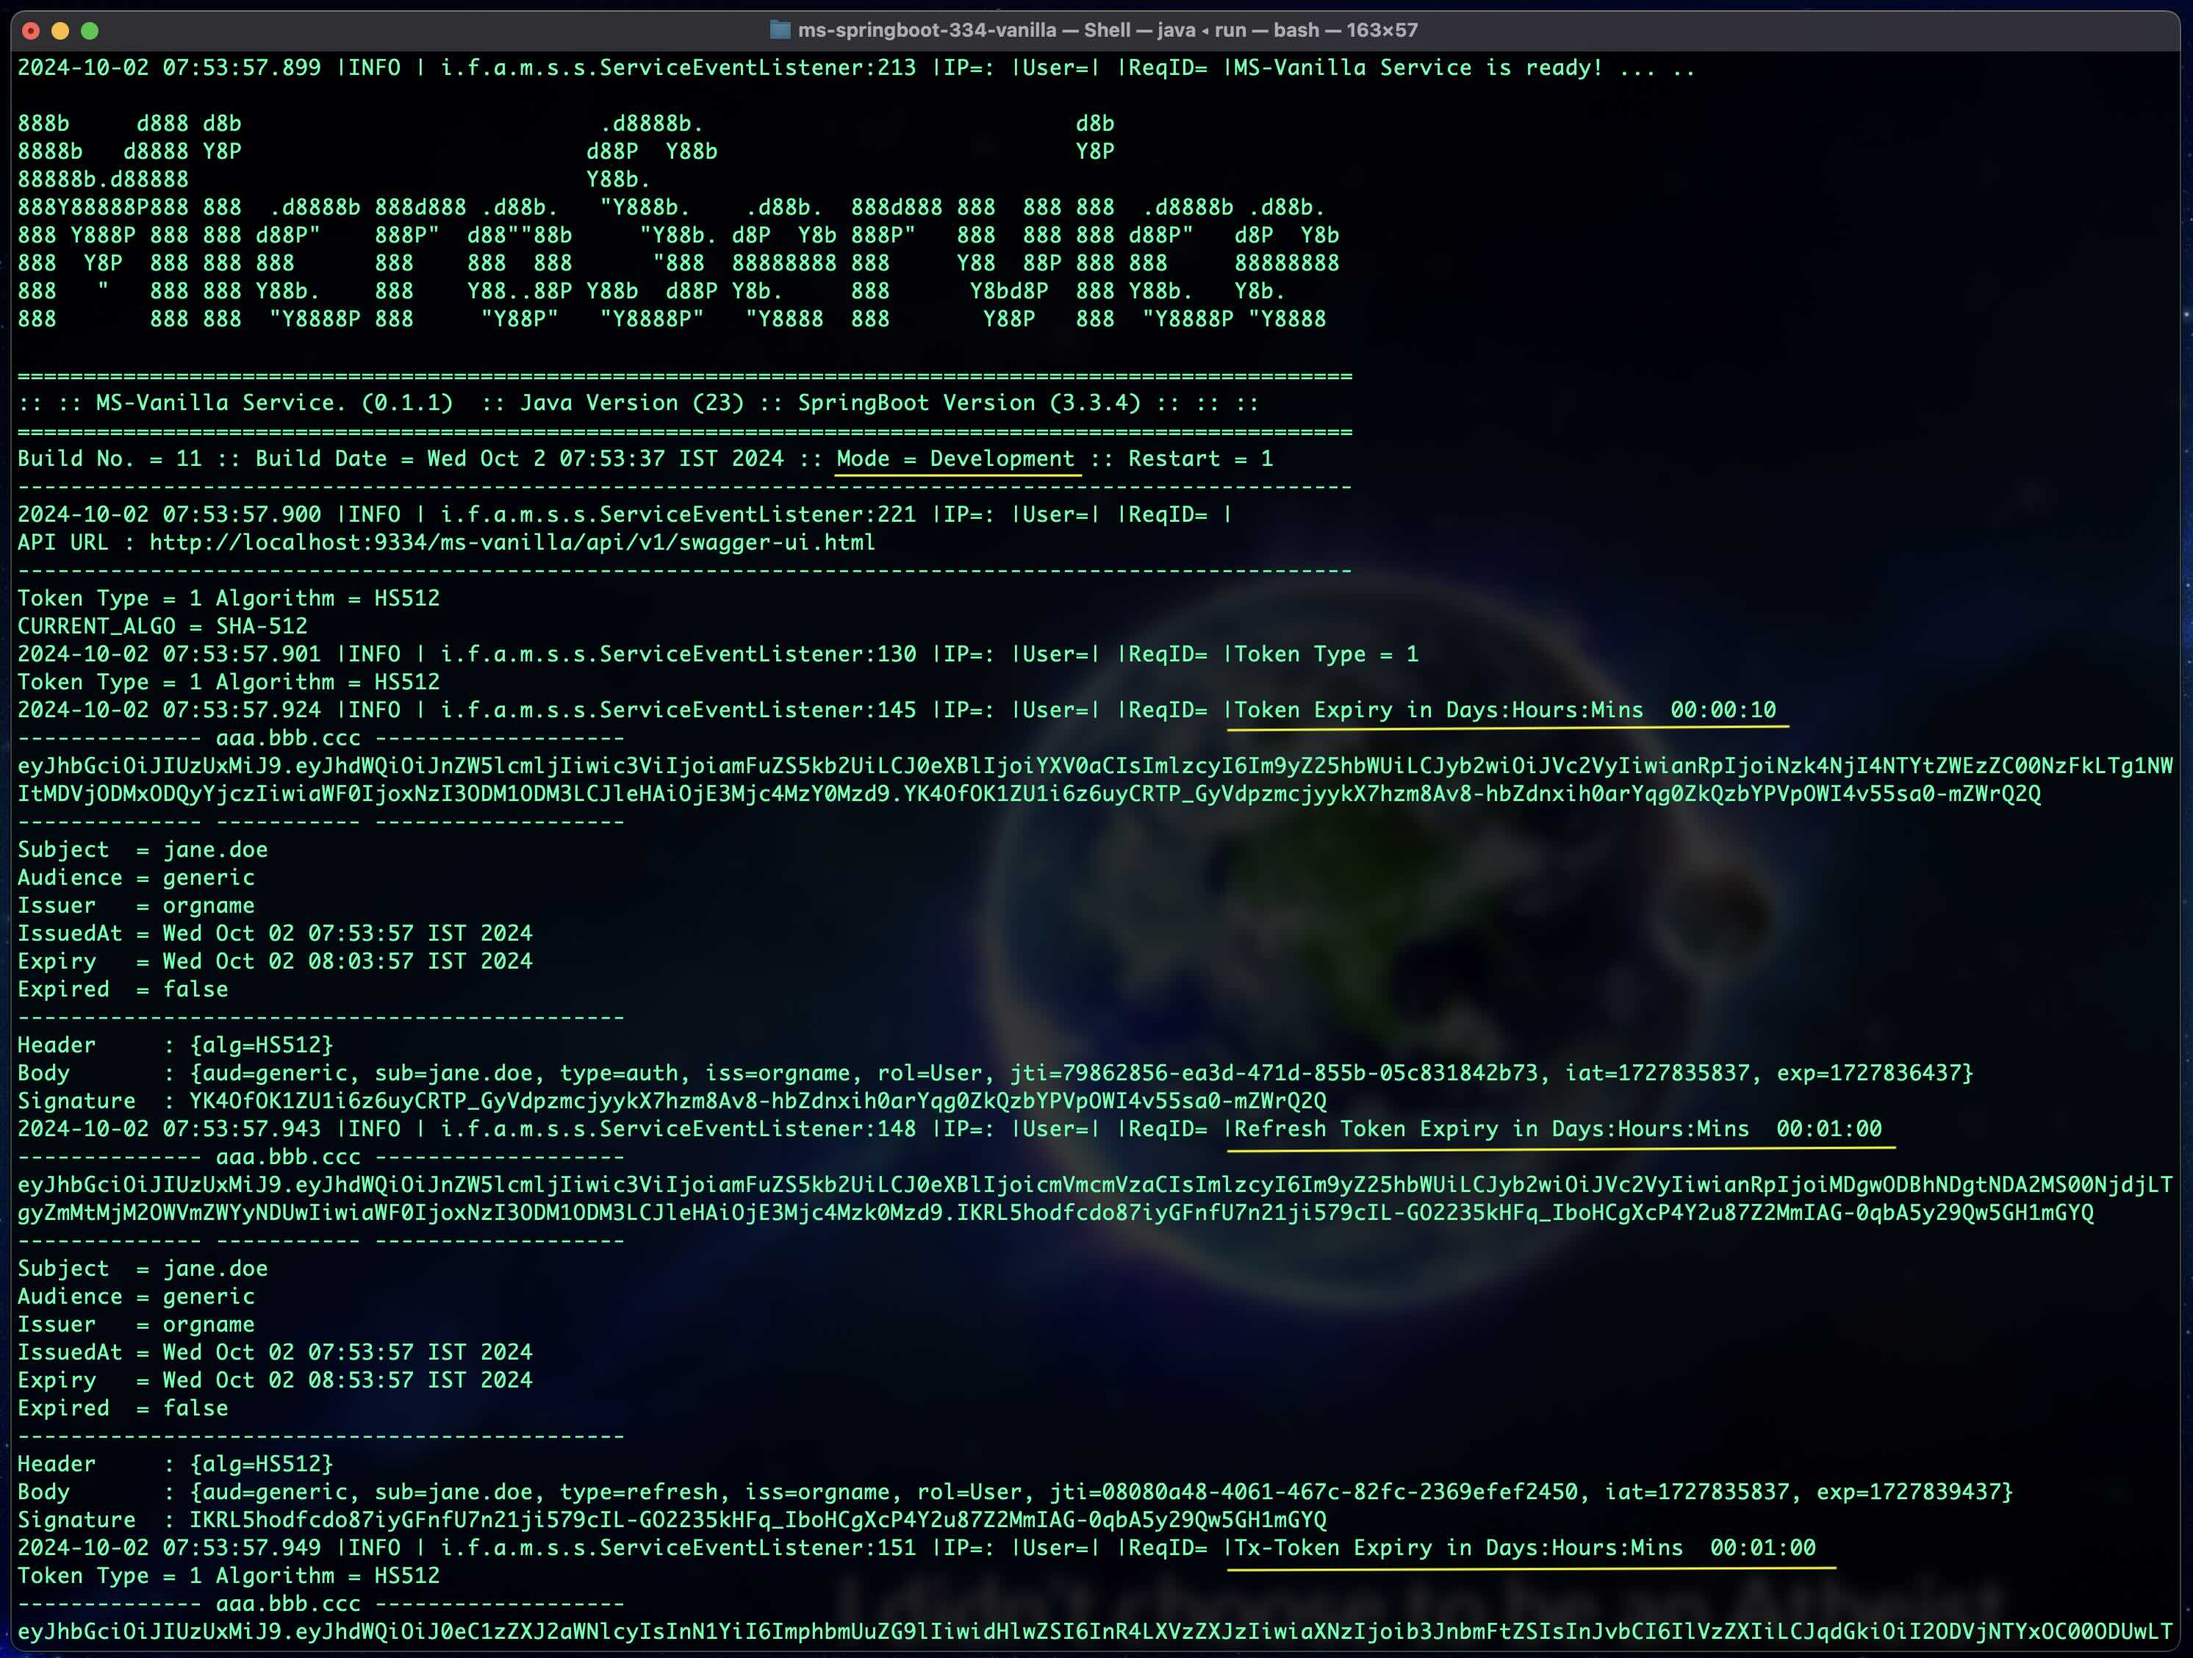
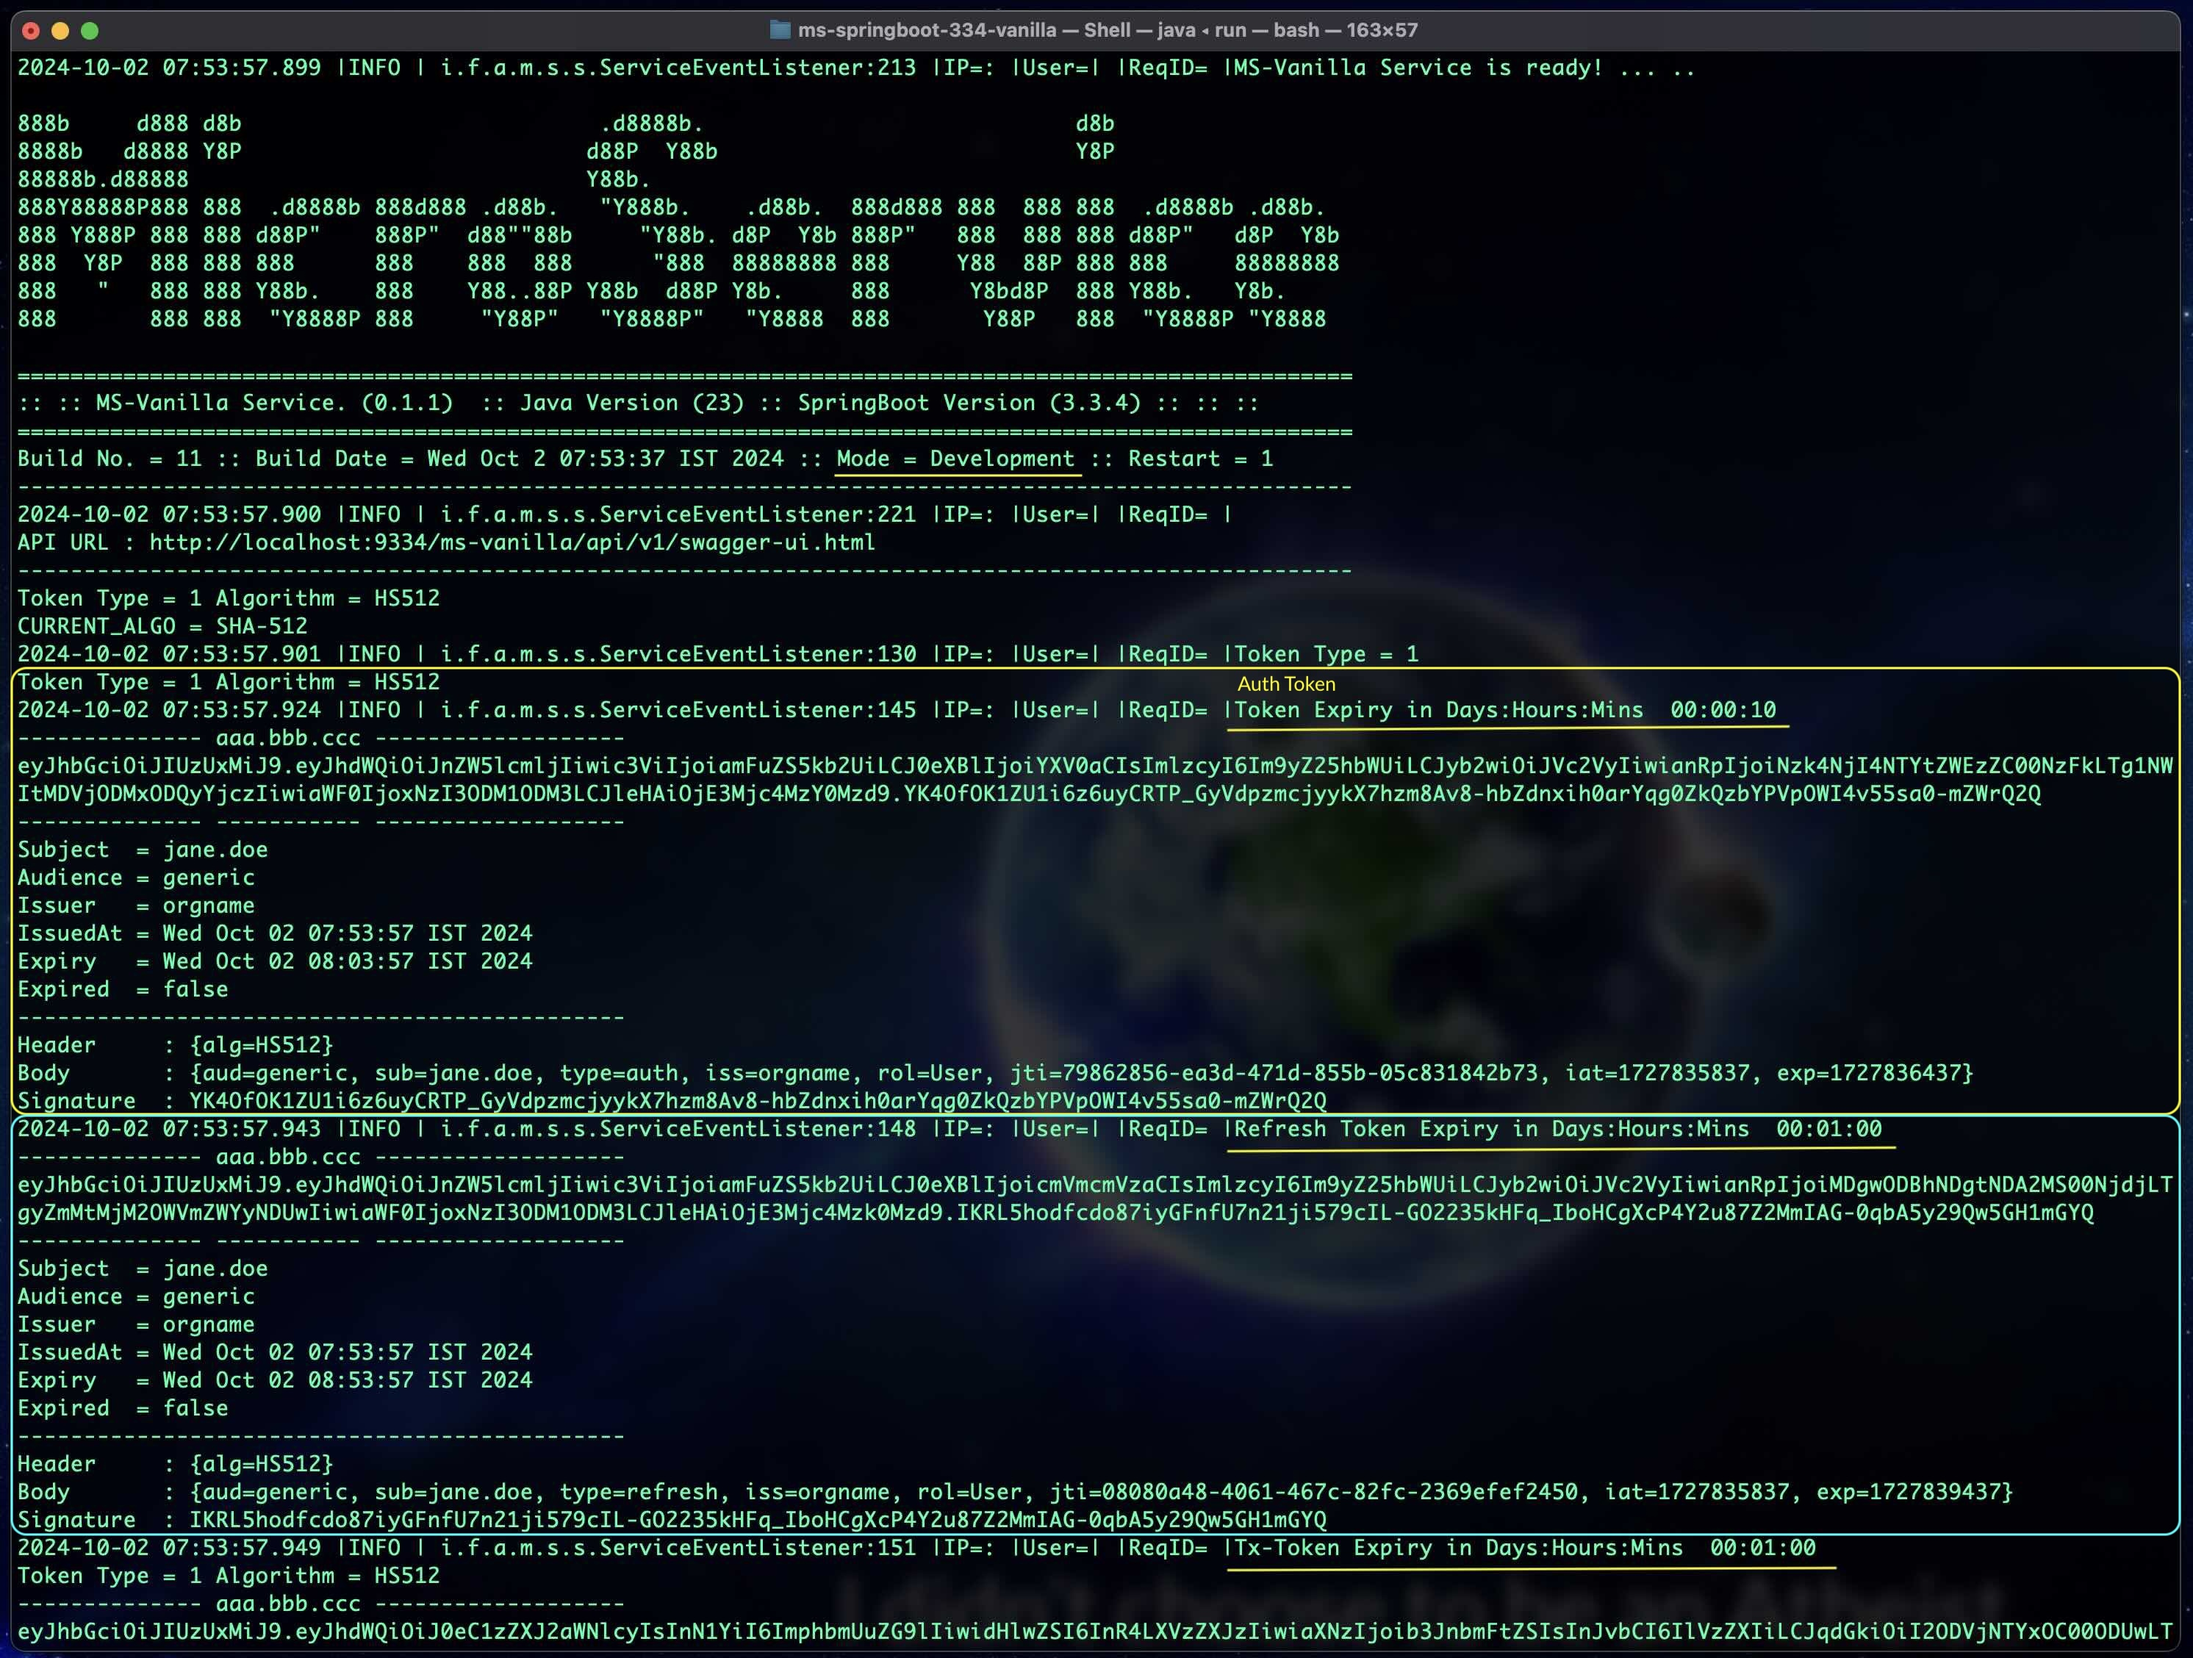
Updated README

diff --git a/README.md b/README.md
@@ -102,11 +102,15 @@ production environment.
 
 #### Step 1.4.2: Click on the Authorize Button (Top Left the Swagger UI)
 
-![Authorize Request](https://raw.githubusercontent.com/arafkarsh/ms-springboot-334-vanilla/master/diagrams/ms-cache-with-Test-Tokens-2.jpg)
+![Authorize Request](https://raw.githubusercontent.com/arafkarsh/ms-springboot-334-vanilla/master/diagrams/ms-vanilla-with-Test-Tokens-2.jpg)
 
 #### Step 1.4.3: Enter the Token and Click Authorize
 
-![Authorize Request](https://raw.githubusercontent.com/arafkarsh/ms-springboot-334-vanilla/master/diagrams/ms-cache-with-Test-Tokens-3.jpg)
+![Authorize Request](https://raw.githubusercontent.com/arafkarsh/ms-springboot-334-vanilla/master/diagrams/ms-vanilla-with-Test-Tokens-3.jpg)
+
+#### Step 1.4.4: Enter the Refresh Token & Tx Token with every request that needs authorization
+
+![Authorize Request](https://raw.githubusercontent.com/arafkarsh/ms-springboot-334-vanilla/master/diagrams/ms-vanilla-with-Test-Tokens-4.jpg)
 
 ### Step 1.5 -  Import Swagger API Docs Into Postman
 
